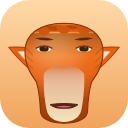
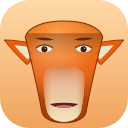
Niulai: drop the head hair, trapezoid skull, low iris, shaded mouth
Four corrections from the reference:

- Removed the shaggy crown entirely. It is not in the reference; I had
  invented it.
- Head is an inverted trapezoid: broad across the top, tapering to a
  narrower rounded base.
- The iris sits low in the eye opening with white showing above it,
  rather than centred. Added `eyes.irisOffset`, expressed as a fraction
  of the free space so the iris can never leave the eye.
- The closed mouth is a change of shade - a soft band of shadow with a
  lit lower lip beneath it - instead of a stroked line. Added
  `mouthStyle: 'shade'`.

Fixed a bug found while building the shading: a canvas gradient is
resolved in the user space in effect when it paints, not when it is
created, so a gradient built before ctx.scale landed somewhere else
entirely and the mouth rendered invisible. Gradients are now created
inside their transform. The muzzle's side edges also fade into the fur
now, matching how its top edge already blended.

diff --git a/src/core/animals.js b/src/core/animals.js
@@ -182,11 +182,14 @@
       ctx.stroke();
       var px = x + p.yaw * r * 0.34;
       var iris = r * (E.iris || 0.46);
-      fillEllipse(ctx, px, y + p.pitch * ry * 0.2, iris, Math.min(ry * 0.92, iris), tilt, spec.eye);
+      var irisRy = Math.min(ry * 0.92, iris);
+      // `irisOffset` of 1 rests the iris on the lower lid, 0 centres it.
+      var py = y + p.pitch * ry * 0.2 + (ry - irisRy) * (E.irisOffset || 0) * open;
+      fillEllipse(ctx, px, py, iris, irisRy, tilt, spec.eye);
       if (E.gloss !== false) {
-        fillEllipse(ctx, px - iris * 0.34, y - ry * 0.3, r * 0.16, r * 0.16 * open, 0, 'rgba(255,255,255,0.92)');
+        fillEllipse(ctx, px - iris * 0.34, py - irisRy * 0.3, r * 0.16, r * 0.16 * open, 0, 'rgba(255,255,255,0.92)');
       } else {
-        fillEllipse(ctx, px + iris * 0.3, y - ry * 0.28, r * 0.1, r * 0.08 * open, 0, 'rgba(255,255,255,0.5)');
+        fillEllipse(ctx, px + iris * 0.3, py - irisRy * 0.3, r * 0.1, r * 0.08 * open, 0, 'rgba(255,255,255,0.5)');
       }
       if (E.hood) {
         // Heavy upper lid, which is what makes an eye read as a real animal's
@@ -317,6 +320,52 @@
     }
 
     var stemTop = spec.nose.y + spec.nose.h * 0.9;
+
+    if (spec.mouthStyle === 'shade') {
+      if (openAmt > 0.05) {
+        var shadeOpen = M.depth + openAmt * (M.maxOpen || 0.2);
+        openMouthPath(ctx, w, top, shadeOpen);
+        ctx.fillStyle = spec.mouthInner || '#5c2230';
+        ctx.fill();
+        ctx.save();
+        ctx.clip();
+        fillEllipse(ctx, 0, top + shadeOpen * 0.8, w * 0.6, shadeOpen * 0.5, 0, spec.tongue);
+        ctx.restore();
+        return;
+      }
+      // Closed: a soft band of shadow with a lit lower lip under it. Soft
+      // edges everywhere, so nothing reads as a drawn line.
+      var shadow = M.shade || 'rgba(150,86,46,';
+      var bandR = w * 1.2;
+      var bandK = (M.depth * 2.6) / bandR;
+      ctx.save();
+      ctx.translate(0, top);
+      ctx.scale(1, bandK);
+      var band = ctx.createRadialGradient(0, 0, bandR * 0.04, 0, 0, bandR);
+      band.addColorStop(0, shadow + (0.5 - p.smile * 0.15).toFixed(2) + ')');
+      band.addColorStop(0.5, shadow + '0.26)');
+      band.addColorStop(1, shadow + '0)');
+      ctx.fillStyle = band;
+      ctx.beginPath();
+      ctx.arc(0, 0, bandR, 0, TAU);
+      ctx.fill();
+      ctx.restore();
+
+      var lipR = w * 0.95;
+      var lipK = (M.depth * 2.0) / lipR;
+      ctx.save();
+      ctx.translate(0, top + M.depth * 1.7);
+      ctx.scale(1, lipK);
+      var lip = ctx.createRadialGradient(0, 0, lipR * 0.04, 0, 0, lipR);
+      lip.addColorStop(0, 'rgba(255,248,226,0.55)');
+      lip.addColorStop(1, 'rgba(255,248,226,0)');
+      ctx.fillStyle = lip;
+      ctx.beginPath();
+      ctx.arc(0, 0, lipR, 0, TAU);
+      ctx.fill();
+      ctx.restore();
+      return;
+    }
 
     if (spec.mouthStyle === 'line') {
       if (openAmt > 0.05) {
@@ -589,26 +638,24 @@
       head: { w: 1.0, h: 1.29 },
       thumbScale: 0.46,
       thumbCentre: 0.50,
-      ear: { type: 'spike', w: 0.29, h: 0.33, x: 0.42, y: -0.18, tilt: 1.14, inner: 0.58, innerColor: '#f2e2c6', swing: 0.6 },
-      eyes: { x: 0.26, y: -0.30, r: 0.098, aspect: 0.42, white: true, iris: 0.62, gloss: false, hood: true, hoodColor: '#7a3506' },
+      ear: { type: 'spike', w: 0.30, h: 0.38, x: 0.44, y: -0.24, tilt: 1.10, inner: 0.58, innerColor: '#f2e2c6', swing: 0.6 },
+      eyes: { x: 0.255, y: -0.305, r: 0.098, aspect: 0.56, white: true, iris: 0.40, irisOffset: 0.85, gloss: false, hood: true, hoodColor: '#7a3506' },
       brows: null,
       muzzle: null,
       nose: { hidden: true, y: 0.16, h: 0.10, w: 0.1, type: 'round' },
-      mouth: { y: 0.43, w: 0.175, depth: 0.035, maxOpen: 0.10 },
-      mouthStyle: 'line',
+      mouth: { y: 0.42, w: 0.185, depth: 0.038, maxOpen: 0.10, shade: 'rgba(158,92,52,' },
+      mouthStyle: 'shade',
       philtrum: false,
 
       headShape: function (ctx) {
         ctx.beginPath();
-        ctx.moveTo(0, -0.63);
-        ctx.bezierCurveTo(0.335, -0.625, 0.497, -0.485, 0.508, -0.28); // cranium
-        ctx.bezierCurveTo(0.520, -0.13, 0.452, 0.01, 0.362, 0.13);   // cheek narrowing
-        ctx.bezierCurveTo(0.322, 0.24, 0.312, 0.40, 0.306, 0.52);    // long muzzle
-        ctx.bezierCurveTo(0.300, 0.61, 0.175, 0.67, 0, 0.67);
-        ctx.bezierCurveTo(-0.175, 0.67, -0.300, 0.61, -0.306, 0.52);
-        ctx.bezierCurveTo(-0.312, 0.40, -0.322, 0.24, -0.362, 0.13);
-        ctx.bezierCurveTo(-0.452, 0.01, -0.520, -0.13, -0.508, -0.28);
-        ctx.bezierCurveTo(-0.497, -0.485, -0.335, -0.625, 0, -0.63);
+        ctx.moveTo(0, -0.66);
+        ctx.bezierCurveTo(0.26, -0.66, 0.475, -0.585, 0.505, -0.45); // top corner
+        ctx.bezierCurveTo(0.432, -0.16, 0.352, 0.16, 0.292, 0.50);   // tapering side
+        ctx.bezierCurveTo(0.282, 0.61, 0.160, 0.665, 0, 0.665);      // rounded base
+        ctx.bezierCurveTo(-0.160, 0.665, -0.282, 0.61, -0.292, 0.50);
+        ctx.bezierCurveTo(-0.352, 0.16, -0.432, -0.16, -0.505, -0.45);
+        ctx.bezierCurveTo(-0.475, -0.585, -0.26, -0.66, 0, -0.66);
         ctx.closePath();
       },
 
@@ -643,12 +690,21 @@
         // follows its curve instead of ruling a line across the face.
         ctx.save();
         ctx.clip();
-        var fade = ctx.createLinearGradient(0, -0.11, 0, 0.14);
-        fade.addColorStop(0, 'rgba(216,100,22,0.95)');
-        fade.addColorStop(0.55, 'rgba(224,150,100,0.35)');
-        fade.addColorStop(1, 'rgba(228,170,120,0)');
+        var fade = ctx.createLinearGradient(0, -0.12, 0, 0.24);
+        fade.addColorStop(0, 'rgba(219,101,20,1)');
+        fade.addColorStop(0.35, 'rgba(224,140,84,0.55)');
+        fade.addColorStop(0.7, 'rgba(228,168,120,0.18)');
+        fade.addColorStop(1, 'rgba(230,180,130,0)');
         ctx.fillStyle = fade;
-        ctx.fillRect(-0.32, -0.12, 0.64, 0.30);
+        ctx.fillRect(-0.32, -0.13, 0.64, 0.40);
+
+        var sides = ctx.createLinearGradient(-0.28, 0, 0.28, 0);
+        sides.addColorStop(0, 'rgba(221,110,32,0.75)');
+        sides.addColorStop(0.22, 'rgba(226,150,96,0)');
+        sides.addColorStop(0.78, 'rgba(226,150,96,0)');
+        sides.addColorStop(1, 'rgba(221,110,32,0.75)');
+        ctx.fillStyle = sides;
+        ctx.fillRect(-0.30, -0.12, 0.60, 0.82);
         ctx.restore();
 
         // Shadow under the brow ridge.
@@ -657,25 +713,6 @@
         ridge.addColorStop(1, 'rgba(92,34,4,0)');
         ctx.fillStyle = ridge;
         ctx.fillRect(-0.5, -0.50, 1, 0.32);
-
-        // Shaggy crown, hem clear of the brows.
-        var crown = ctx.createLinearGradient(0, -0.64, 0, -0.44);
-        crown.addColorStop(0, '#f07d24');
-        crown.addColorStop(1, '#bf4507');
-        ctx.fillStyle = crown;
-        ctx.fillRect(-0.62, -0.80, 1.24, 0.28);
-        var tips = [-0.48, -0.54, -0.47, -0.53, -0.49, -0.55, -0.48, -0.54, -0.50];
-        for (var i = 0; i < tips.length; i++) {
-          var cx = -0.52 + i * 0.13;
-          var half = 0.105;
-          ctx.beginPath();
-          ctx.moveTo(cx - half, -0.60);
-          ctx.bezierCurveTo(cx - half * 0.8, tips[i] - 0.03, cx - half * 0.4, tips[i], cx, tips[i]);
-          ctx.bezierCurveTo(cx + half * 0.4, tips[i], cx + half * 0.8, tips[i] - 0.03, cx + half, -0.60);
-          ctx.closePath();
-          ctx.fillStyle = i % 2 ? '#bc4507' : '#d0550e';
-          ctx.fill();
-        }
 
         // Fur strokes down the cheeks.
         ctx.strokeStyle = 'rgba(120,44,4,0.28)';
